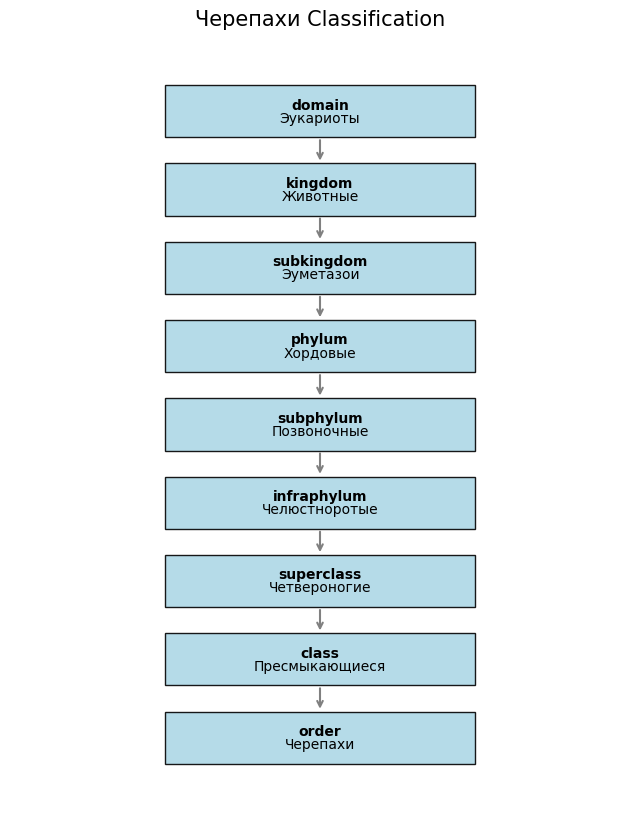
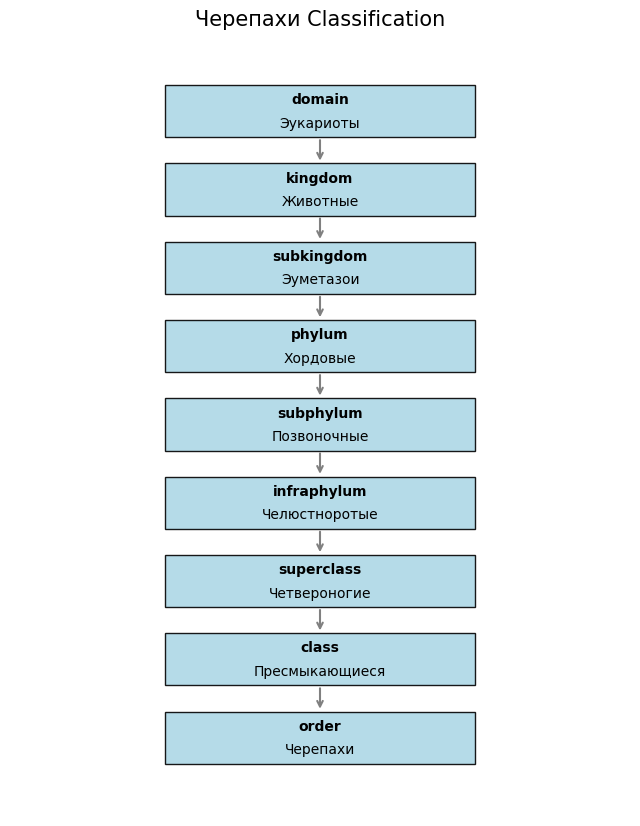
update img/classification.png

diff --git a/zoopy/viz.py b/zoopy/viz.py
@@ -51,7 +51,7 @@ def plot_classification(animal_for_plotting: animal.Animal) -> None:
         ax.add_patch(rect)
 
         # Add text
-        indent = 0.08
+        indent = 0.09
         ax.text(0, y + indent, taxon, ha='center', va='center', fontsize=10, fontfamily='sans-serif', weight='bold')
         ax.text(0, y - indent, name, ha='center', va='center', fontsize=10, fontfamily='sans-serif')
 
@@ -67,3 +67,5 @@ def plot_classification(animal_for_plotting: animal.Animal) -> None:
     plt.title(f'{animal_for_plotting.name} Classification', fontsize=15, pad=15)
     plt.show()
     
+def plot_geo(animal_for_plotting: animal.Animal) -> None:
+    pass
